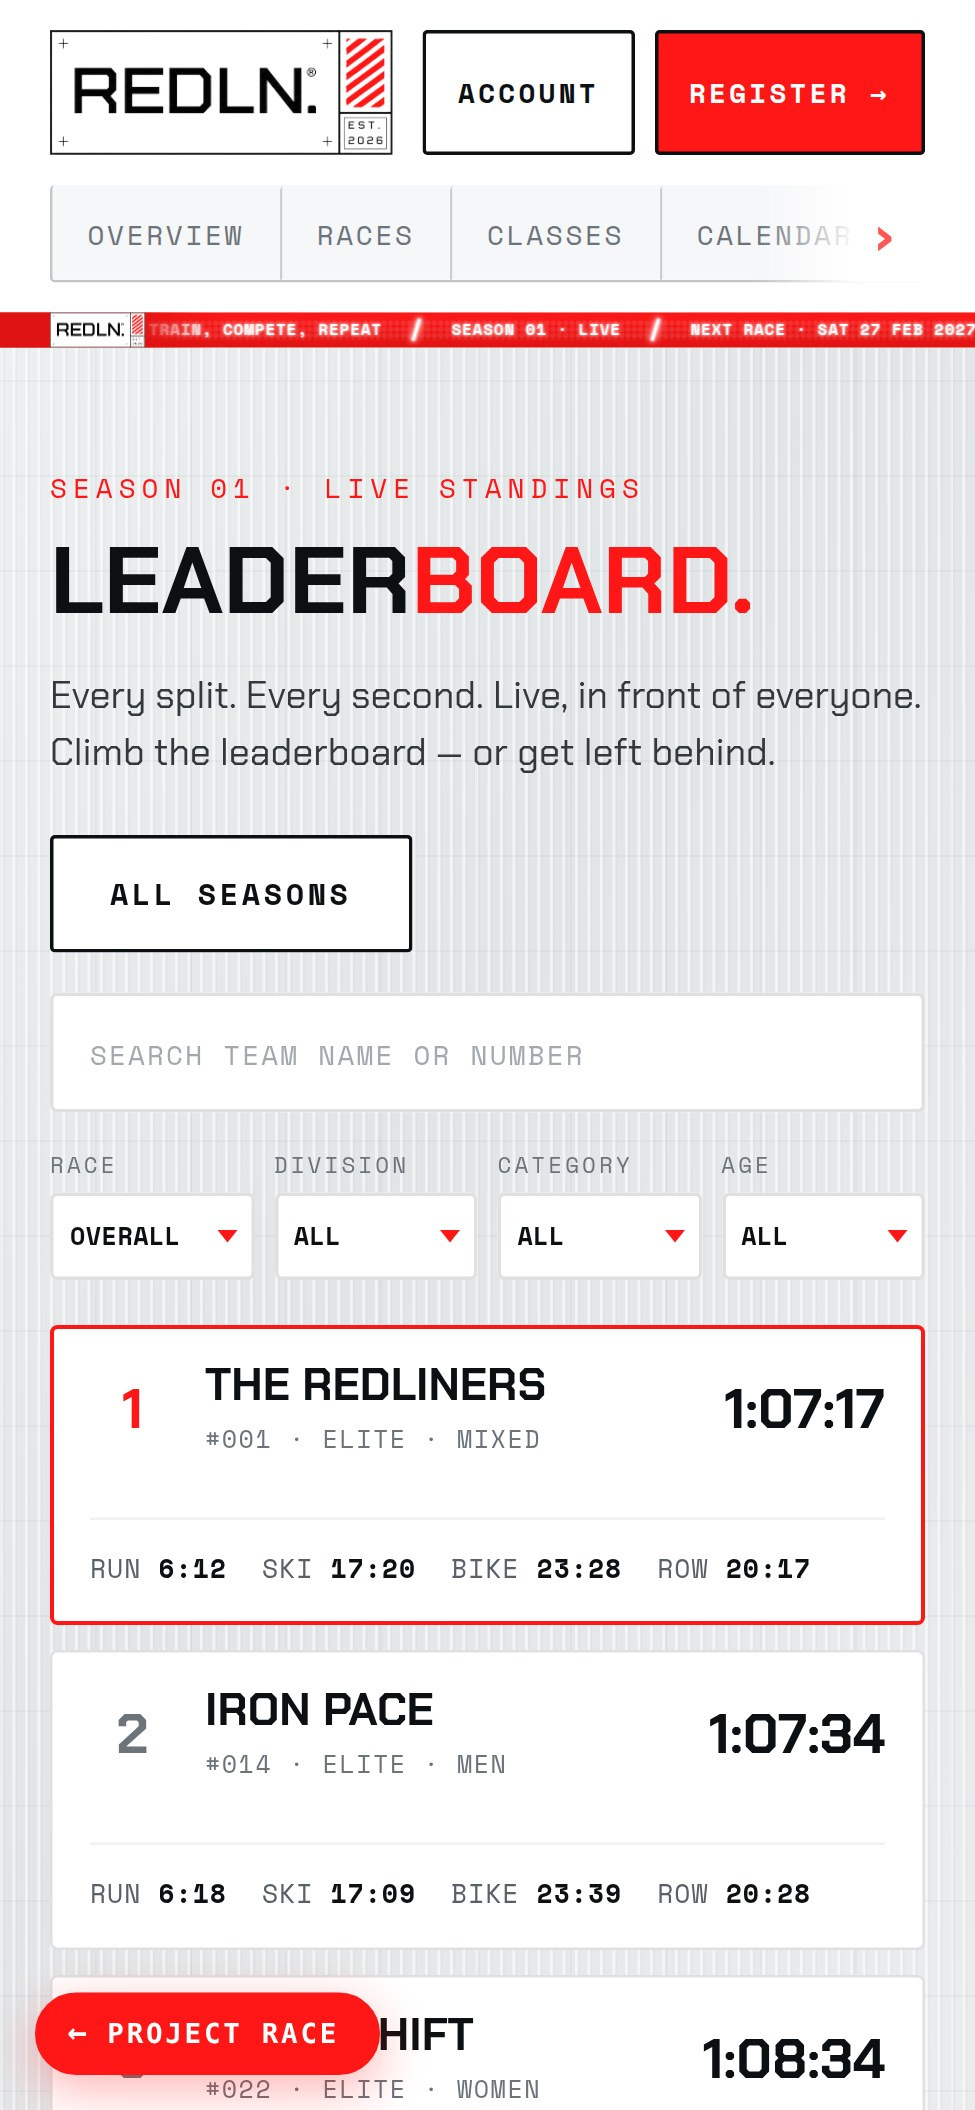
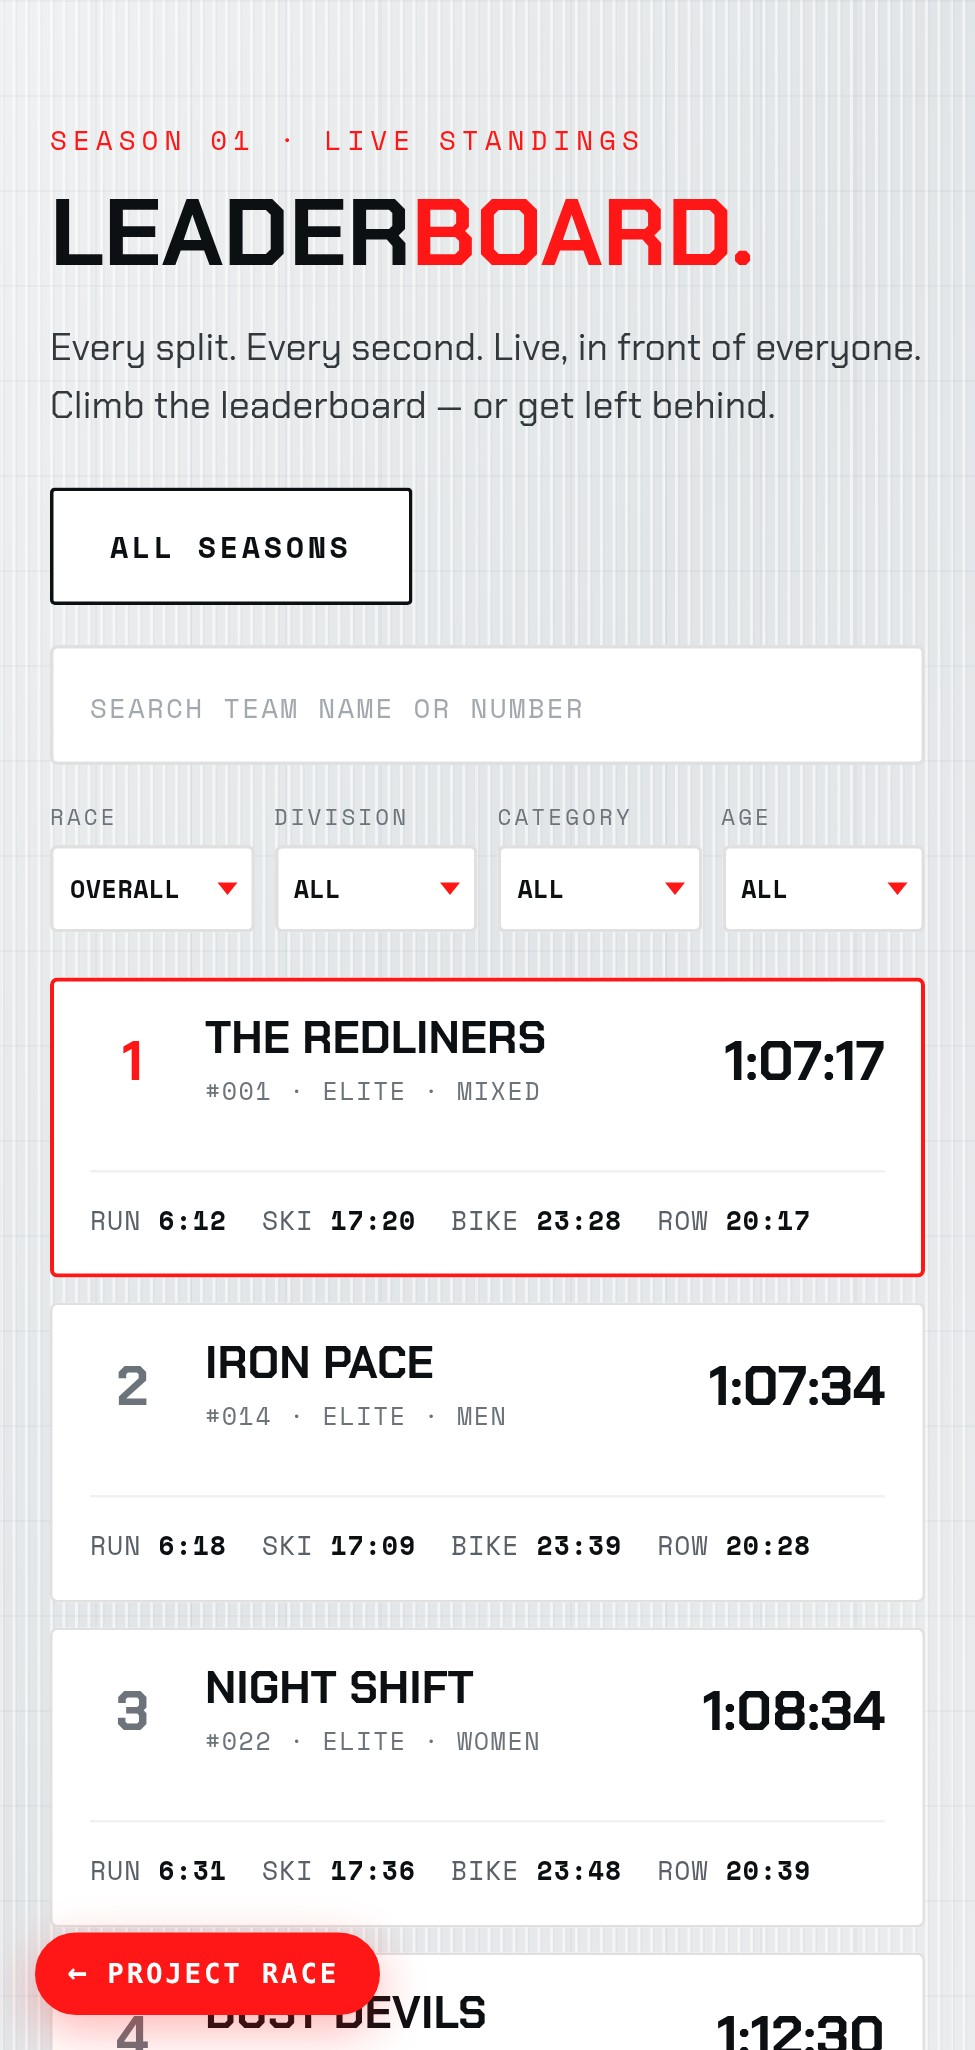
Brochure: clean member-app screenshots (hide redundant site header); gallery captions -> DXB Race-haus, drop 'Partner Area'
Claude-Session: https://claude.ai/code/session_01RfjiyBKpAPM1uZPiQrX1TU

Changed region(s): [[0.0, 0.0, 1.0, 1.0]]

diff --git a/redln-investor-brochure.html b/redln-investor-brochure.html
@@ -418,10 +418,10 @@ footer .cta{font-family:var(--mono);font-weight:700;font-size:12px;letter-spacin
   <span class="redbar"></span>
   <p class="sub tail">Design-intent renders for the first REDLN venue &mdash; a warehouse-scale competition floor framed by a retail store and a caf&eacute;, wrapped in the brand&rsquo;s clean lab aesthetic and single red line.</p>
   <div class="gallery tail">
-    <div class="g"><img src="brochure-assets/racehaus-floor.jpg" alt="REDLN Race-haus competition floor"><span class="cap">The Arena &middot; Competition Floor</span></div>
+    <div class="g"><img src="brochure-assets/racehaus-floor.jpg" alt="REDLN Race-haus competition floor"><span class="cap">DXB Race-haus &middot; Competition Floor</span></div>
     <div class="col">
       <div class="g"><img src="brochure-assets/racehaus-entry.jpg" alt="REDLN entry, retail and caf&eacute;"><span class="cap">Entry &middot; Retail &middot; Caf&eacute;</span></div>
-      <div class="g"><img src="brochure-assets/racehaus-partner.jpg" alt="REDLN partner area on race day"><span class="cap">Race Day &middot; Partner Area</span></div>
+      <div class="g"><img src="brochure-assets/racehaus-partner.jpg" alt="REDLN partner area on race day"><span class="cap">DXB Race-haus &middot; Race Day</span></div>
     </div>
   </div>
 </div></section>
